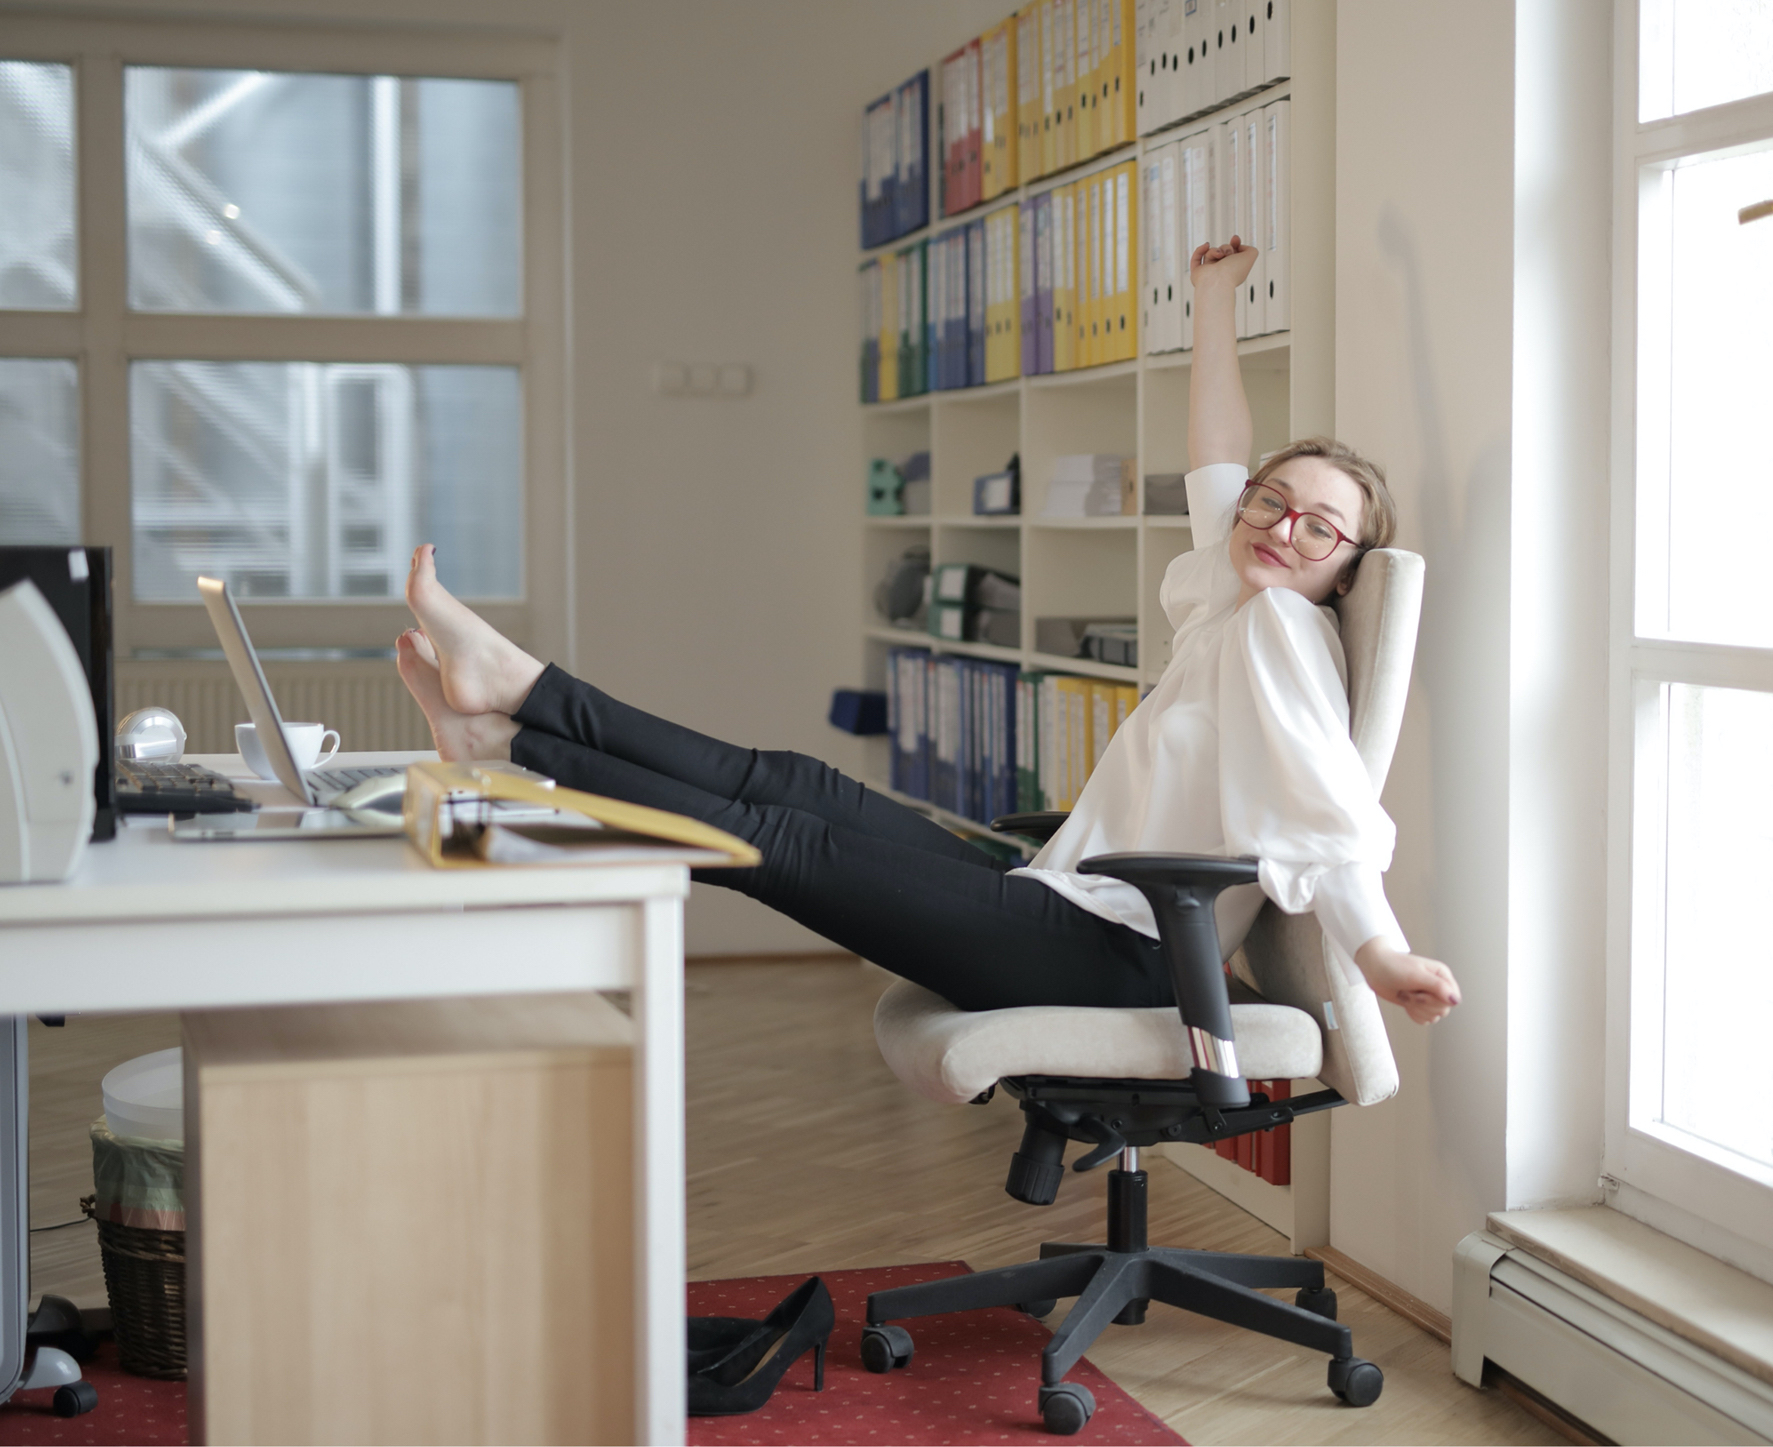
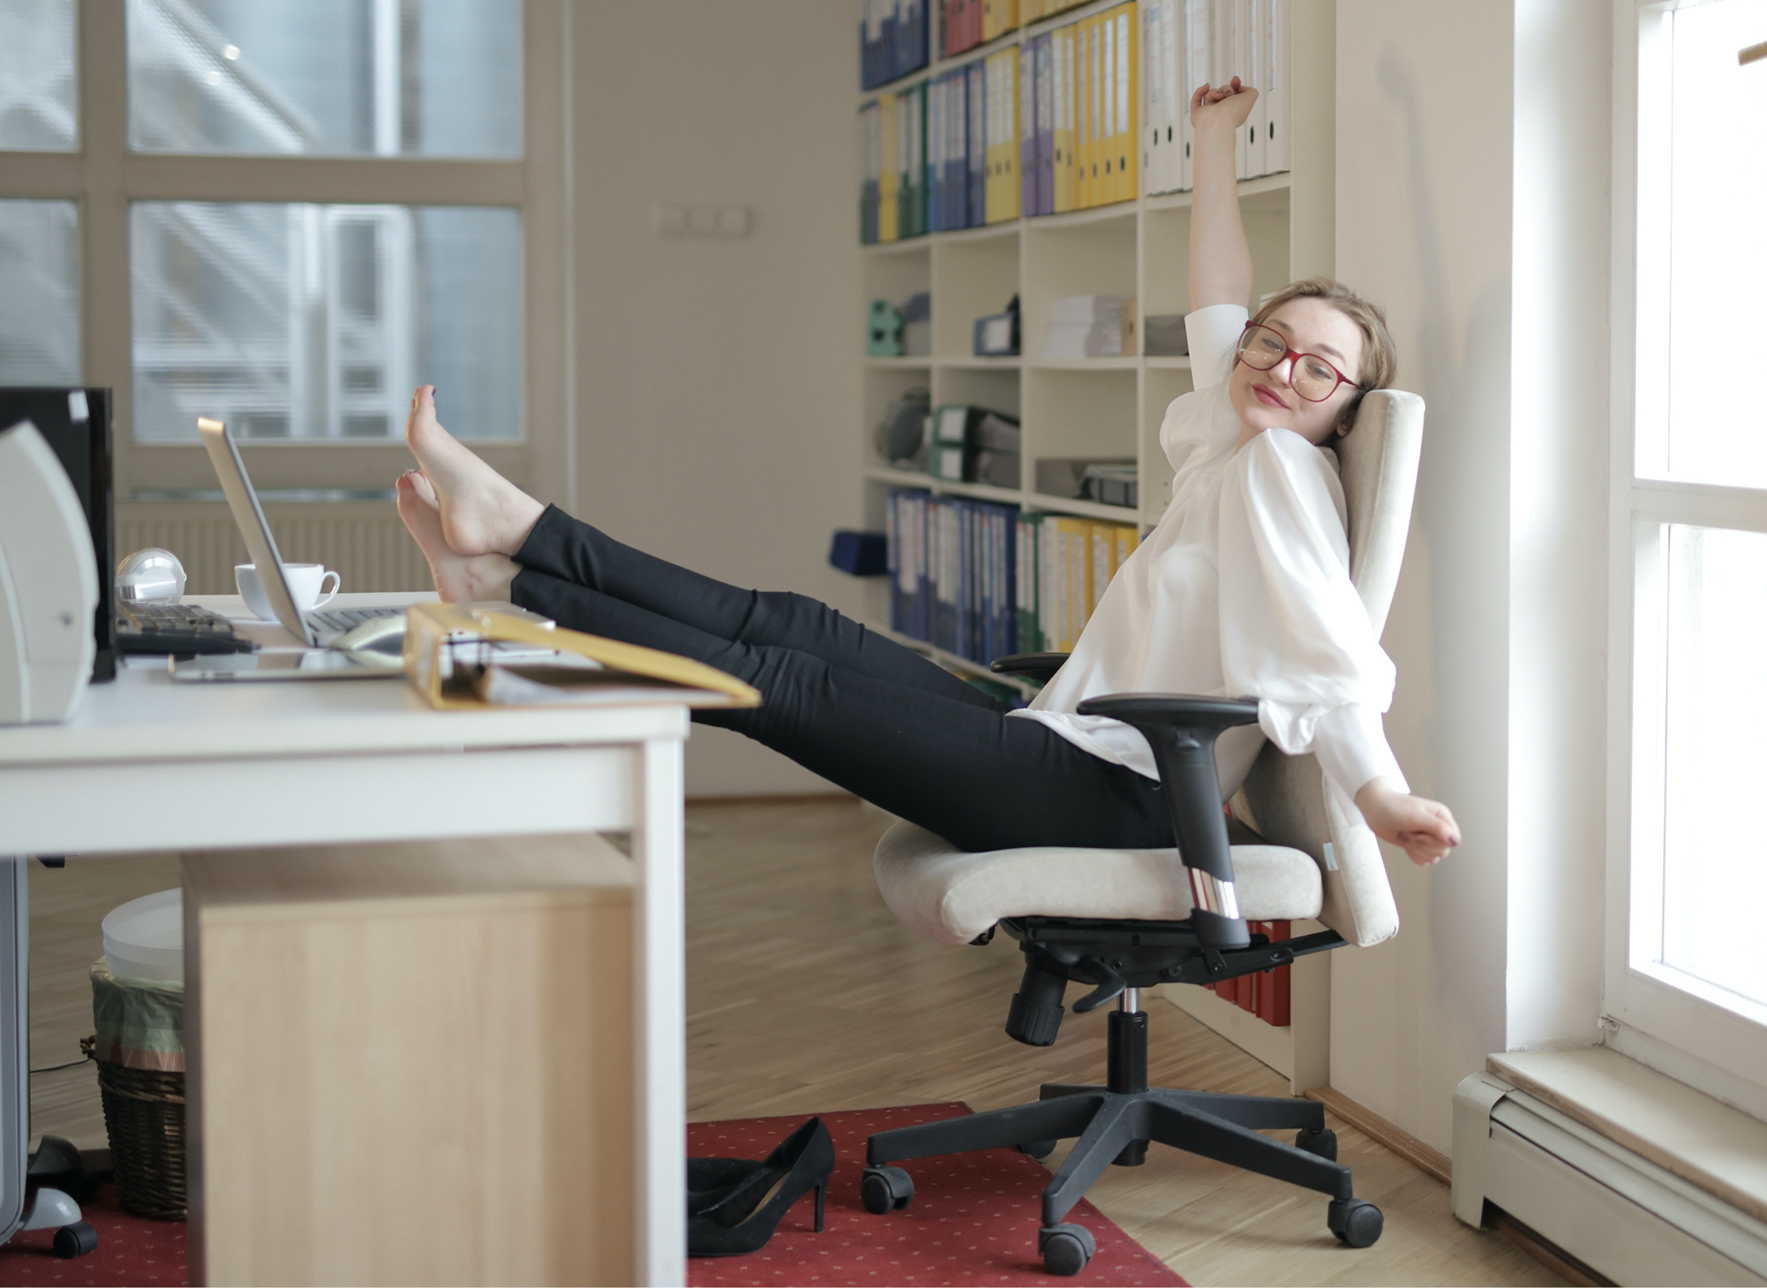
improved spacing

diff --git a/styles/main-style.css b/styles/main-style.css
@@ -123,7 +123,7 @@ button:focus{outline: none;}
 
 .card-popout{
     position: relative;
-    max-width: 22rem;
+    max-width: 25rem;
     margin: 0 auto;
     background-color: #ffffff;
     border-radius: 10px;
@@ -151,7 +151,7 @@ button:focus{outline: none;}
 
 #card-3 img{
     width: 50%;
-    margin: -6rem 0 -14rem 35%;
+    margin: -6rem 0 -16rem 35%;
 }
 
 .card-bubble{
@@ -166,7 +166,7 @@ button:focus{outline: none;}
 .card-bubble .bubble{
     vertical-align: middle;
     position: absolute;
-    top: -10px;
+    top: -15px;
     left: -10px;
     width: 30px;
     height: 30px;
@@ -339,7 +339,7 @@ button:focus{outline: none;}
     display: flex;
     flex-flow: column;
     justify-content: center;
-    padding: 3rem;
+    padding-left: 4rem;
     height: 100vh;
     max-width: 30rem;
 }
@@ -349,23 +349,24 @@ button:focus{outline: none;}
     display: flex;
     flex-direction: column;
     gap: 15rem;
-    margin: 15rem 2rem;
+    padding: 15rem 4rem 15rem 3rem;
 }
 
 @media only screen and (max-width: 50em){
     .two-column{
         display: block;
-        padding-bottom: 5rem;
+        padding-bottom: 8rem;
     }
 
     .two-column .copy{
         position: static;
-        height: 50vh;
+        height: initial;
+        padding: 6rem 2rem;
     }
 
     .two-column .cards{
-        margin: 3rem 1rem 0;
-        gap: 12rem
+        padding: 3rem 2rem 0;
+        gap: 11rem
     }
 }
 
@@ -373,25 +374,23 @@ button:focus{outline: none;}
 
 .study-wrapper .copy-wrapper{
     max-width: 70rem;
-    padding: 2rem;
+    padding: 0 4rem;
     margin: 10rem auto;
 }
 .study-wrapper .copy{
-    max-width: 55rem;
+    width: 70%;
 }
 
 .study-wrapper .cards-wrapper{
     background: linear-gradient(0deg, var(--white) 0%, var(--white) 15%, rgba(255,255,255,0) 100%), url(/assets/study/pexels-andrea-piacquadio.jpg);
     background-size: cover;
-    background-position: 0% 45%;
+    background-position: 0% 30%;
 }
 
 .study-wrapper .cards{
-    position: relative;
-    z-index: 0;
     max-width: 70rem;
     margin: 0 auto 10rem;
-    padding: 8rem 2rem;
+    padding: 8rem 4rem;
     display: flex;
     flex-direction: column;
     gap: 5rem;
@@ -401,16 +400,26 @@ button:focus{outline: none;}
     margin-top: -11rem;
 }
 
-.study-wrapper .image-fade{
-    position: absolute;
-    bottom: 0;
-    height: 50%;
-    width: 100%;
-    background-color: lawngreen;
-    z-index: 9;
+@media only screen and (max-width: 50em){
+    .study-wrapper .copy-wrapper{
+        margin: 0rem auto 4rem;
+        padding: 15rem 2rem 0;
+        background: linear-gradient(0deg, var(--white) 0%, var(--white) 35%, rgba(255,255,255,0) 100%), url(/assets/study/pexels-andrea-piacquadio.jpg);
+        background-size: cover;
+        background-position: 50% 50%;
+    }
 
+    .study-wrapper .copy{
+        max-width: 30rem;
+        width: initial;
+    }
+
+    .study-wrapper .cards-wrapper{background: initial;}
+
+    .study-wrapper .cards{padding: 0 2rem;}
+
+    .study-wrapper #card-4{margin-top: 0;}
 }
-
 
 /*------------------------------Footer--------------------------------*/
 
